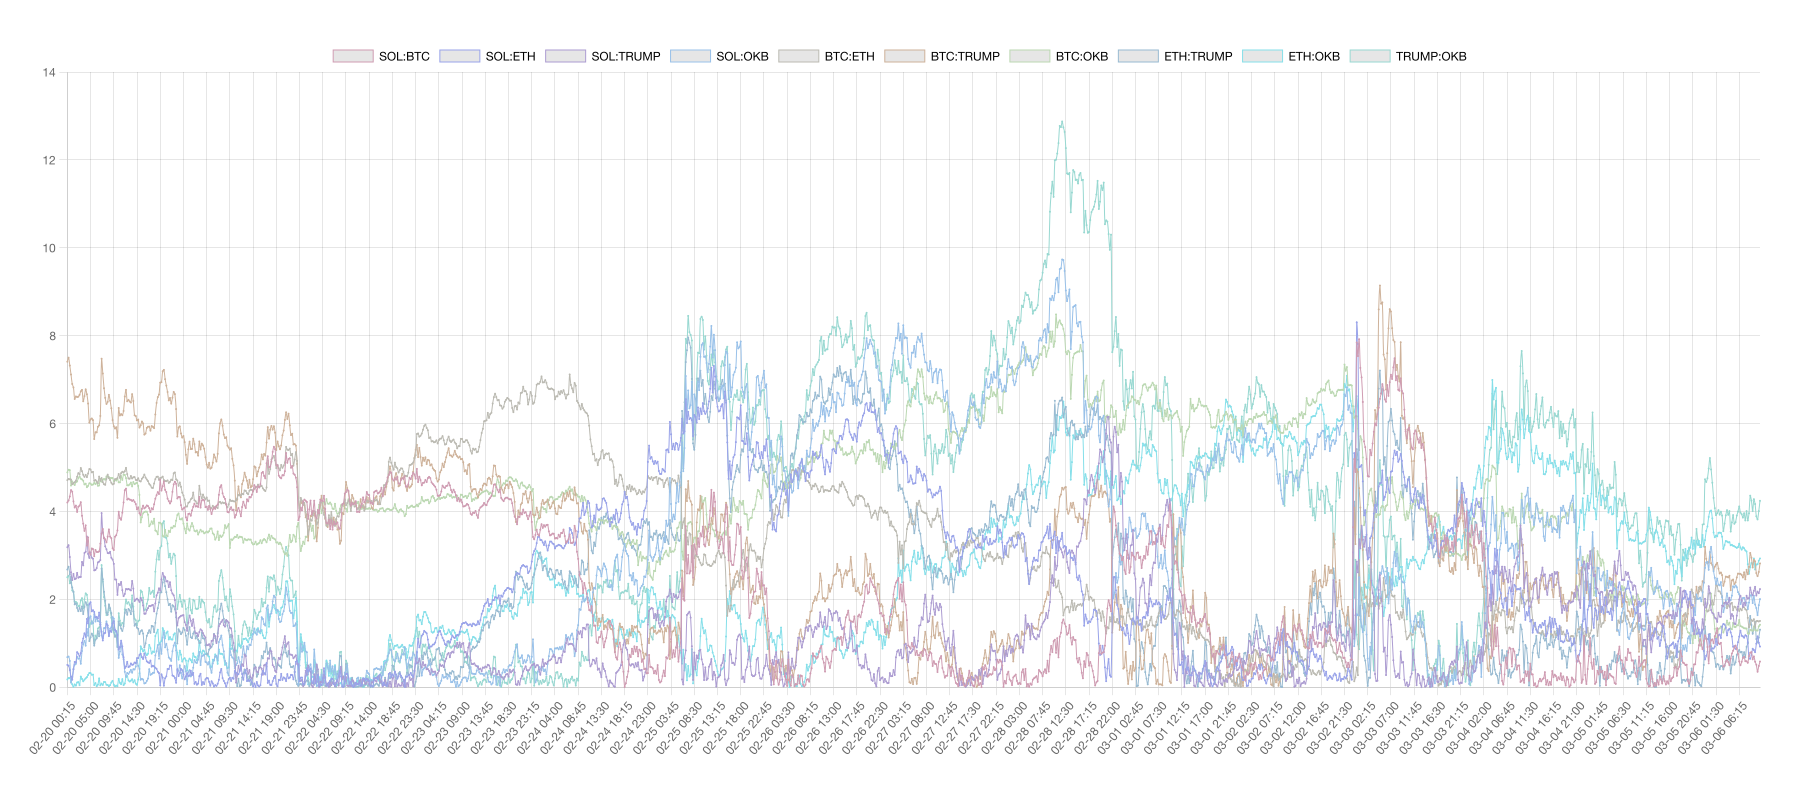
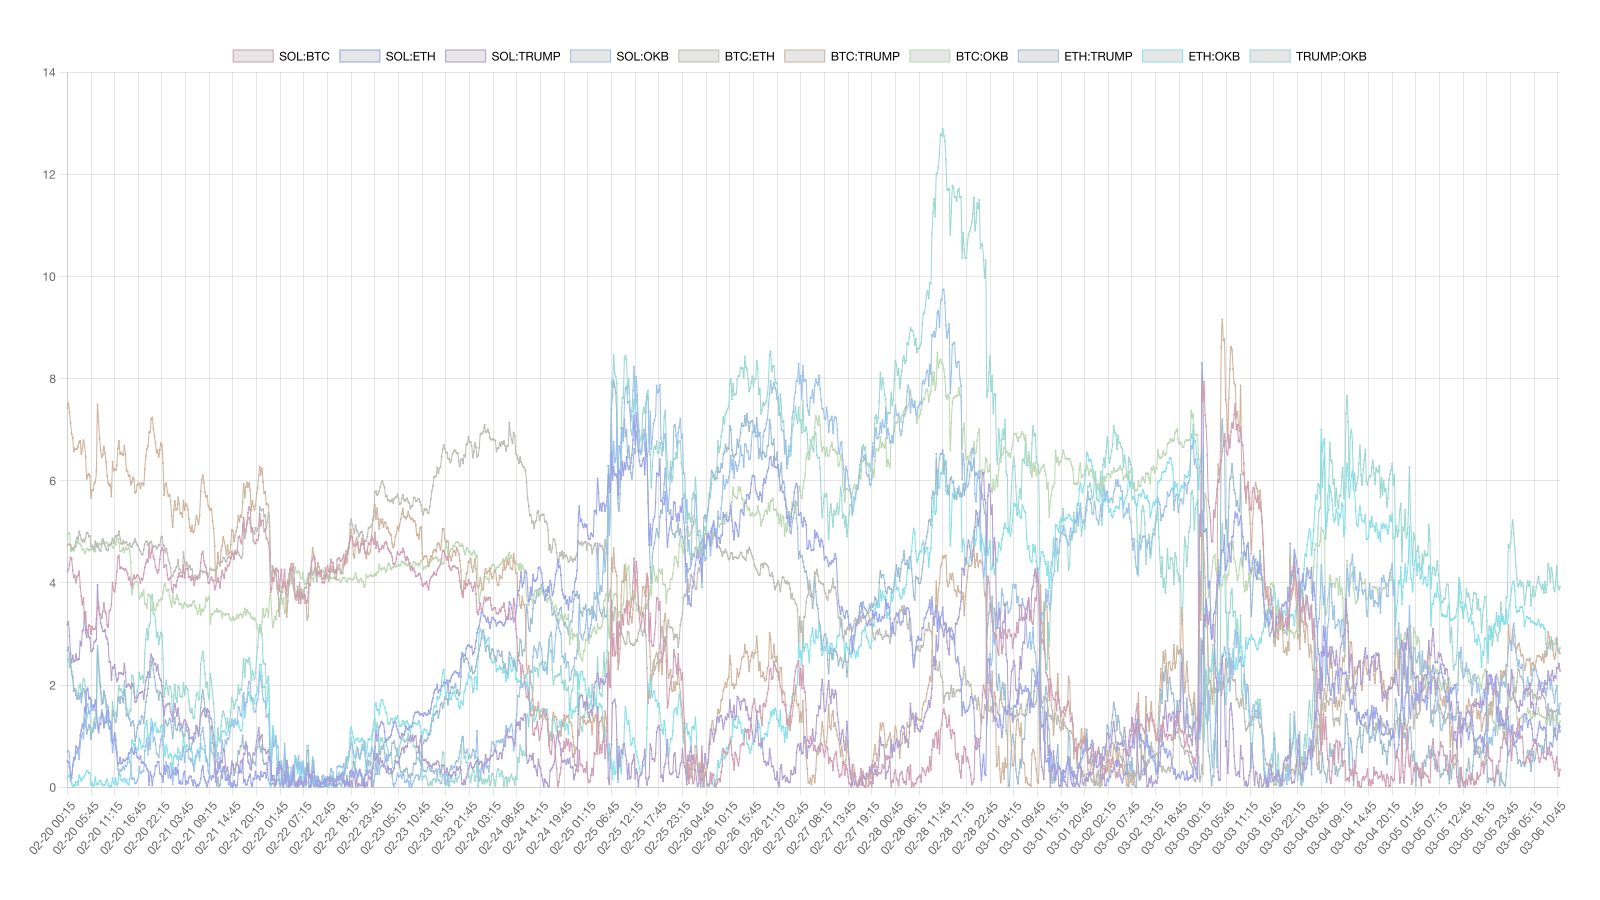
opt:调整绘制尺寸

Changed region(s): [[0.0, 0.1562, 1.0, 0.9688], [0.125, 0.0312, 0.8438, 0.0938]]

diff --git a/src/TradeEngine/VisualEngine.js b/src/TradeEngine/VisualEngine.js
@@ -6,7 +6,7 @@ import { getClosingTransaction, getLastTransactions, getOpeningTransaction } fro
 import { createCollisionAvoidance, paintLine, simpAssetName } from '../paint.js';
 import { TradeEngine } from './TradeEngine.js';
 
-const width = 1800, height = 800;
+const width = 1600, height = 900;
 const chartJSNodeCanvas = new ChartJSNodeCanvas({ width, height, backgroundColour:'#fff' });
 const font_style = "Monaco, Menlo, Consolas, monospace";
 
